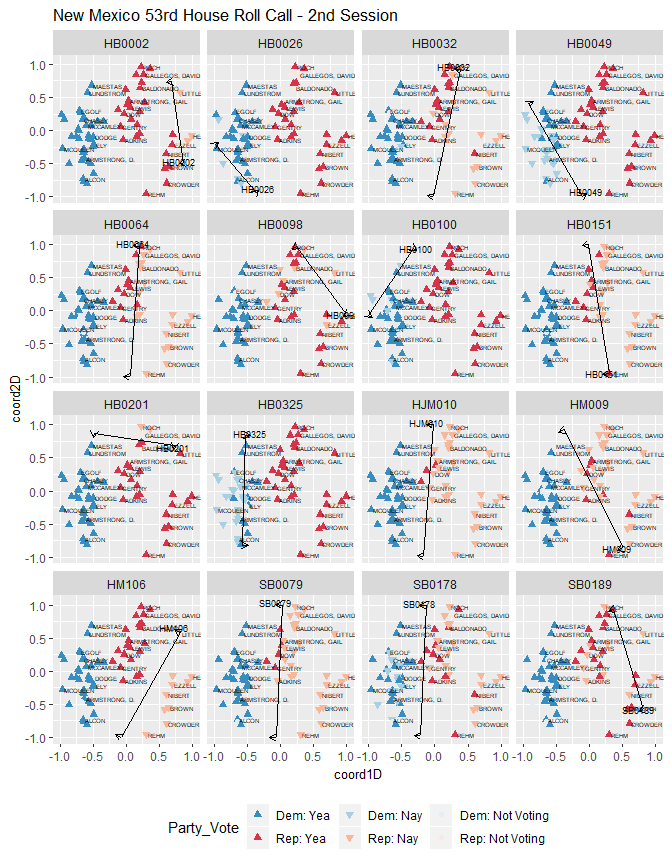
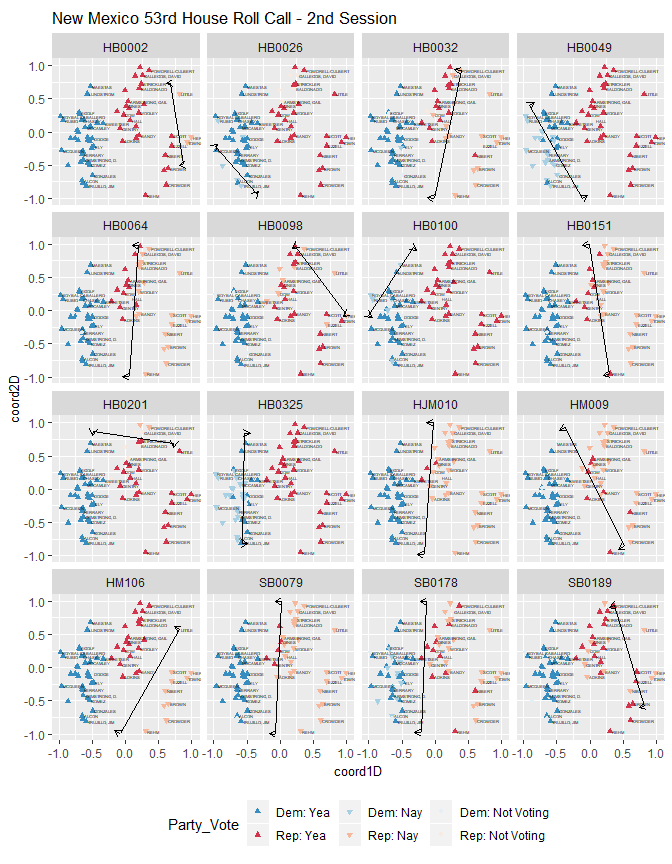
re

diff --git a/README.md b/README.md
@@ -81,7 +81,7 @@ resultd2 <- wnominate::wnominate (datRC,
 ## 
 ## 
 ## W-NOMINATE estimation completed successfully.
-## W-NOMINATE took 2.41 seconds to execute.
+## W-NOMINATE took 2.39 seconds to execute.
 ```
 
 ### Plot two-dimensional model
@@ -252,7 +252,7 @@ cut_sub <- subset(with_cuts, Bill_ID %in% select_cuts)
 sub %>%
 ggplot(aes(x=coord1D, y=coord2D)) +
   geom_point(aes(color = Party_Vote, shape= Party_Vote, fill = Party_Vote),
-             size= 1.5) +
+             size= 1) +
   nmlegisdatr::nml_color_vote() +
   nmlegisdatr::nml_fill_vote() +
   nmlegisdatr::nml_shape_vote()+
@@ -260,7 +260,7 @@ ggplot(aes(x=coord1D, y=coord2D)) +
         plot.title = element_text(size=13), 
         axis.title = element_text(size=10)) +
   geom_text(aes(label=Representative), 
-            size=1.5, 
+            size=1, 
             check_overlap = TRUE, 
             hjust = 0, 
             nudge_x = 0.03)+
@@ -272,11 +272,6 @@ ggplot(aes(x=coord1D, y=coord2D)) +
   geom_segment(data=cut_sub, 
                aes(x = x_1, y = y_1, xend = x_1a, yend = y_1a), 
                arrow = arrow(length = unit(0.2,"cm")))+
-  geom_text(data=cut_sub, 
-               aes(x = x_1a, y = y_1a, label = Bill_ID), 
-               size=2.5, 
-               nudge_y = 0.03,
-               check_overlap = TRUE) +
   labs(title="New Mexico 53rd House Roll Call - 2nd Session") +
   coord_equal(ratio=1)+
   facet_wrap(~Bill_ID, ncol = 4)
